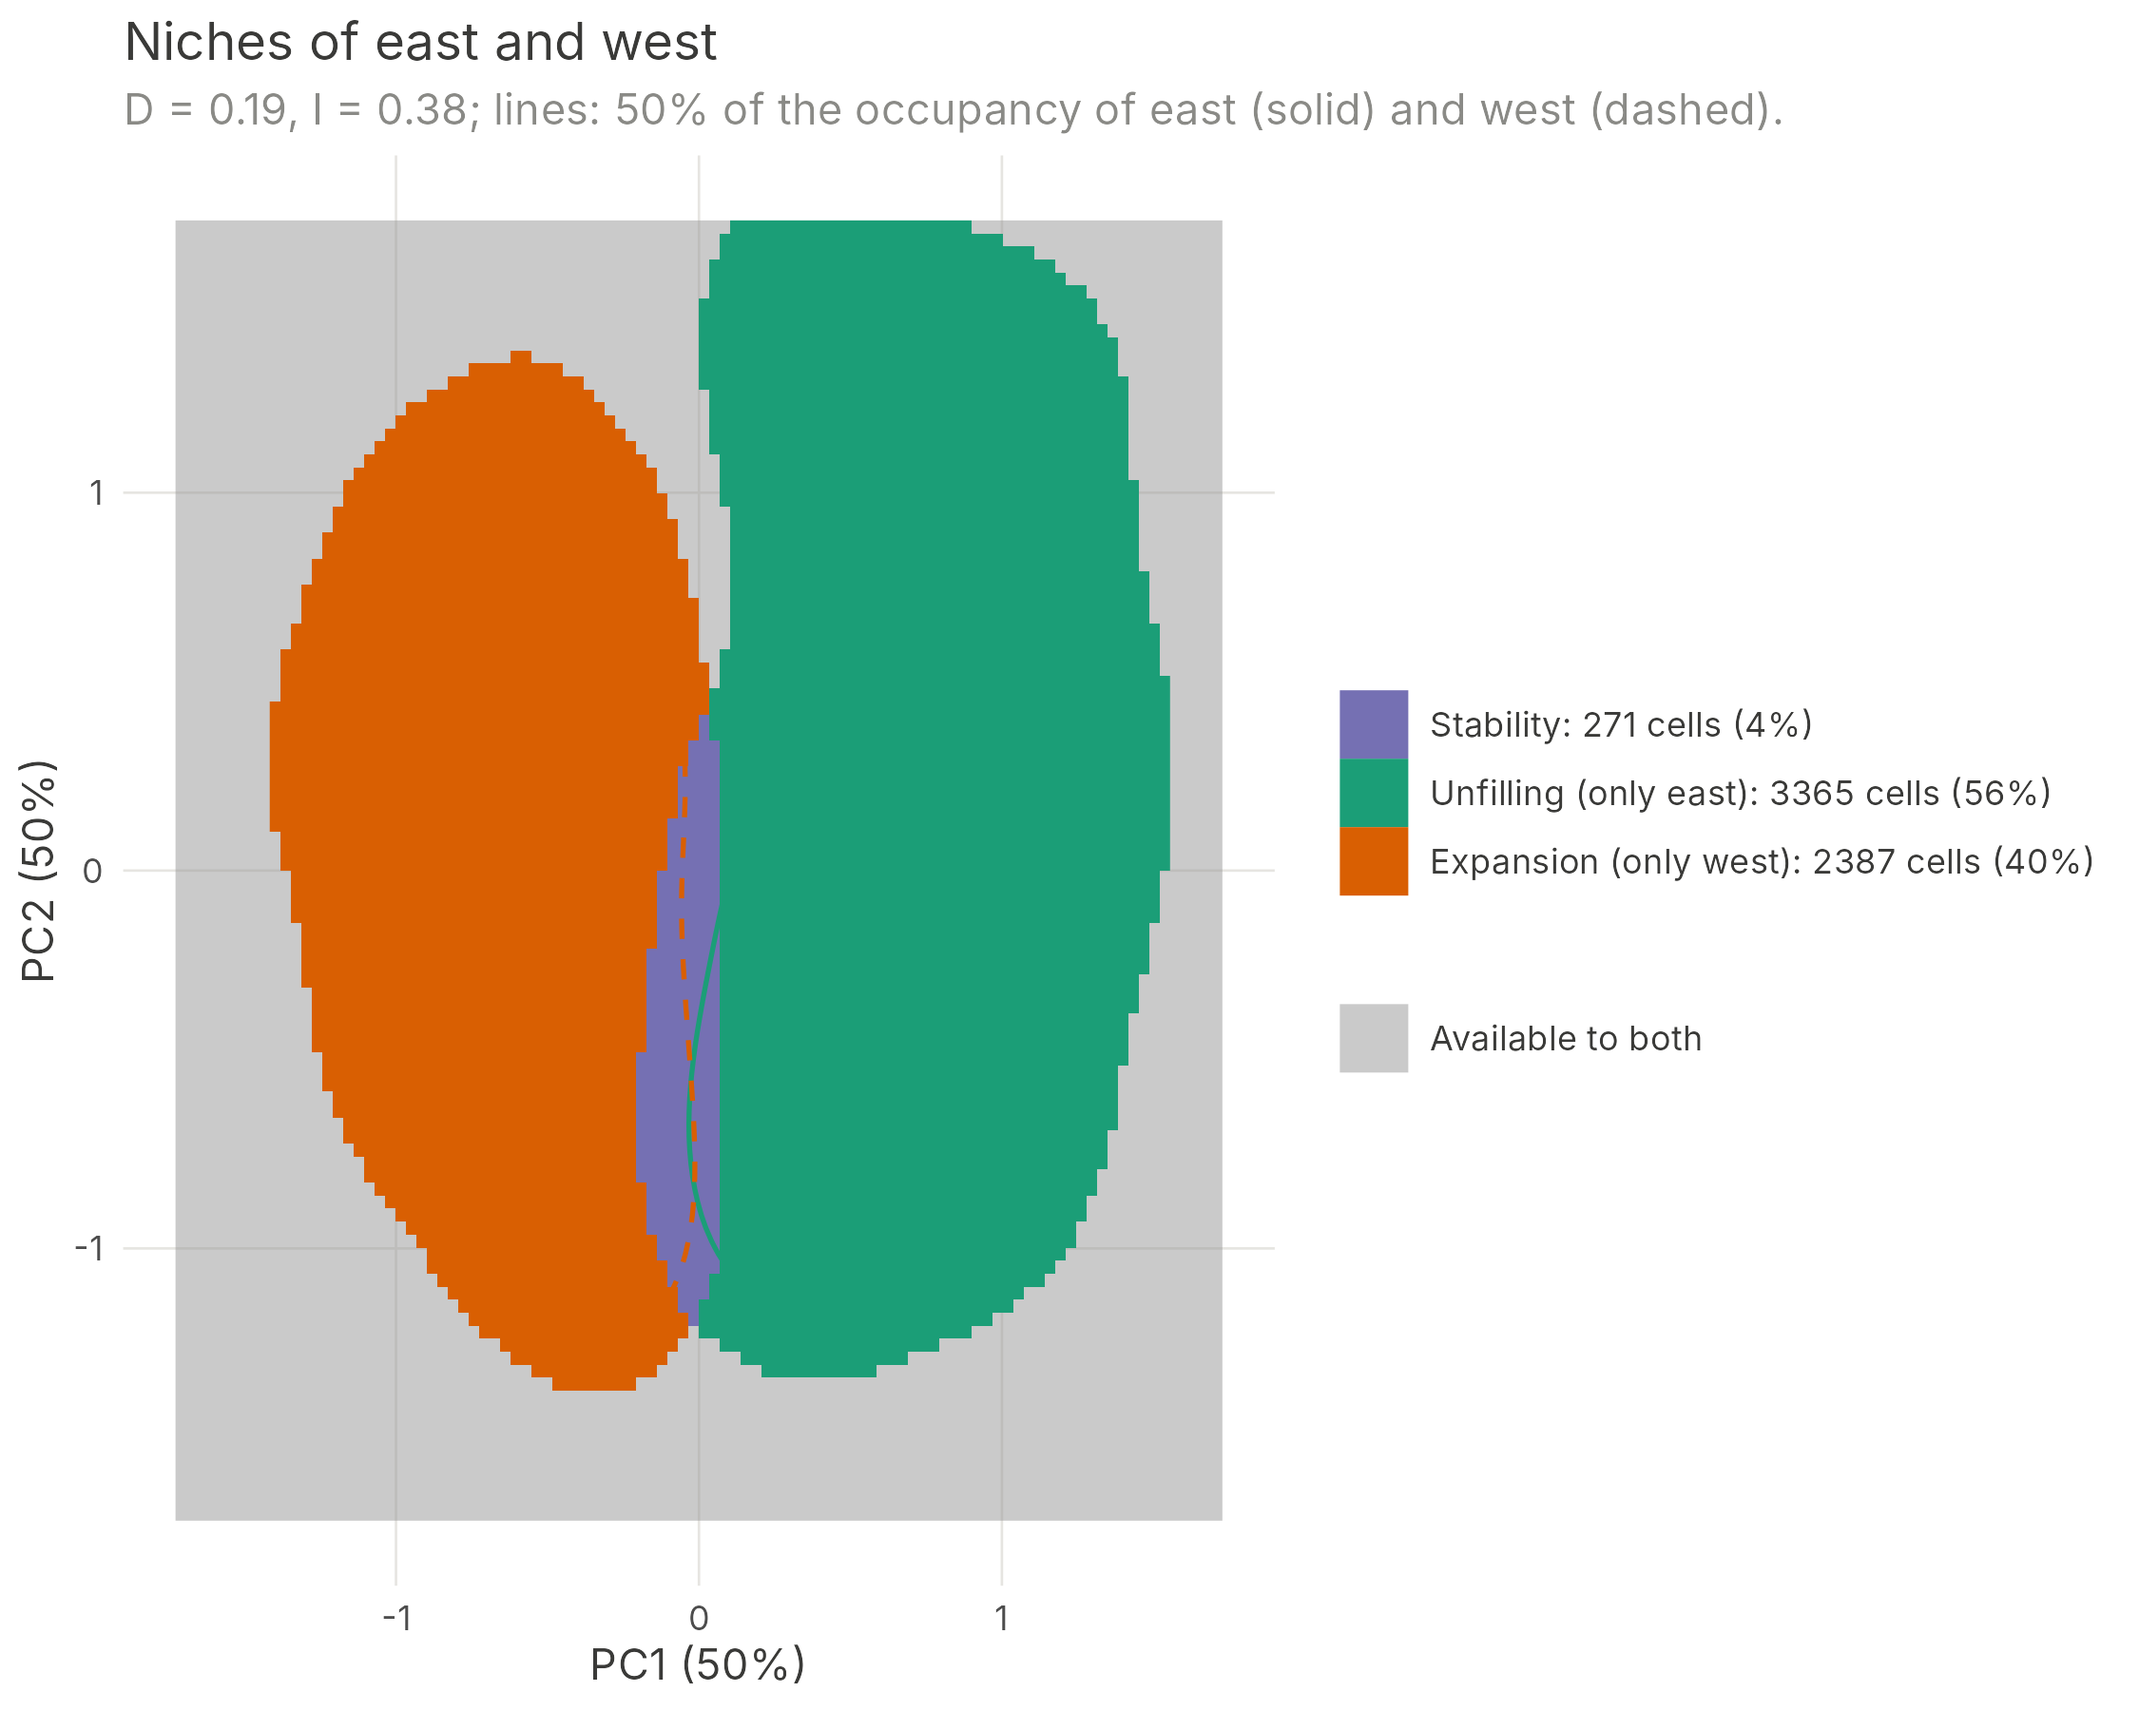
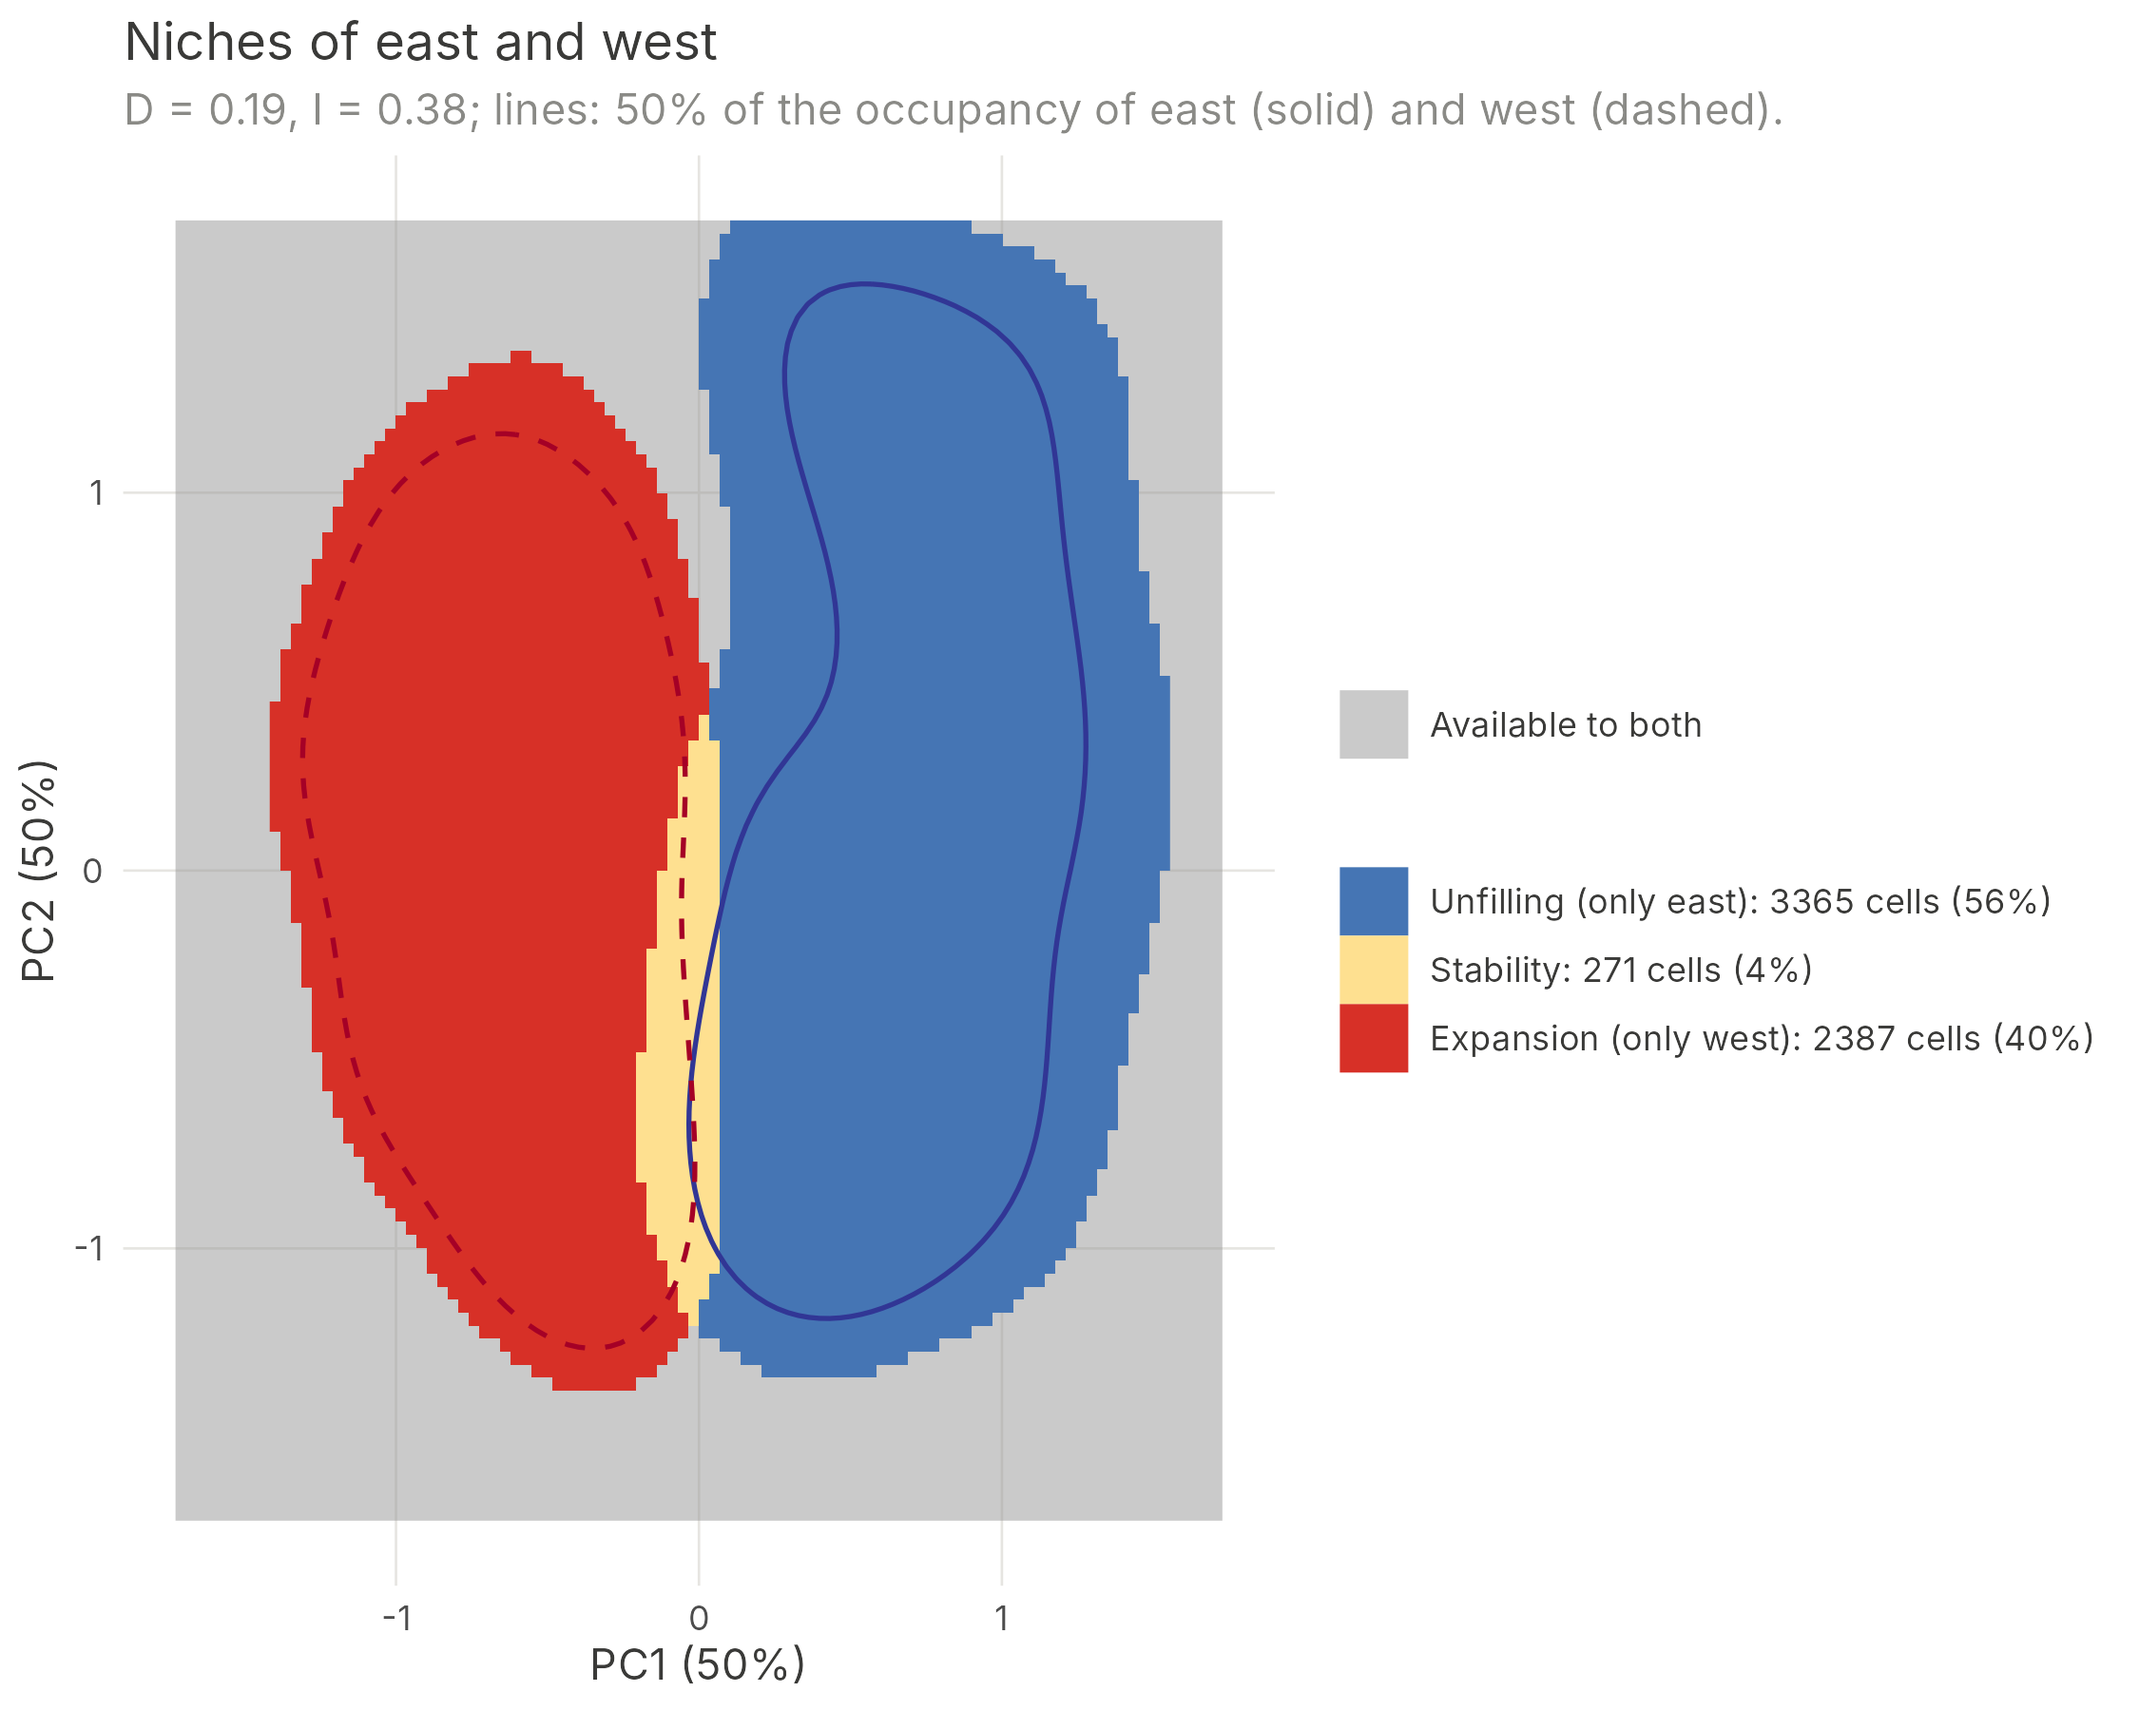
plot_niche_overlap(): ColorBrewer RdYlBu diverging colours (2.31.1)
Claude-Session: https://claude.ai/code/session_016vzwX4WM1PTi9LQ4YKu42d

Changed region(s): [[0.1244, 0.1244, 0.56, 0.8089], [0.6222, 0.4044, 0.9644, 0.6533], [0.84, 0.4356, 0.8711, 0.4667]]

diff --git a/NEWS.md b/NEWS.md
@@ -1,3 +1,9 @@
+# preENM 2.31.1
+
+* `plot_niche_overlap()` uses the ColorBrewer diverging palette RdYlBu: the
+  niche of the first group only in blue, of the second only in red, the
+  shared niche in yellow, and the legend in that order.
+
 # preENM 2.31.0
 
 Niche overlap between groups (Broennimann et al. 2012, *Global Ecology and
